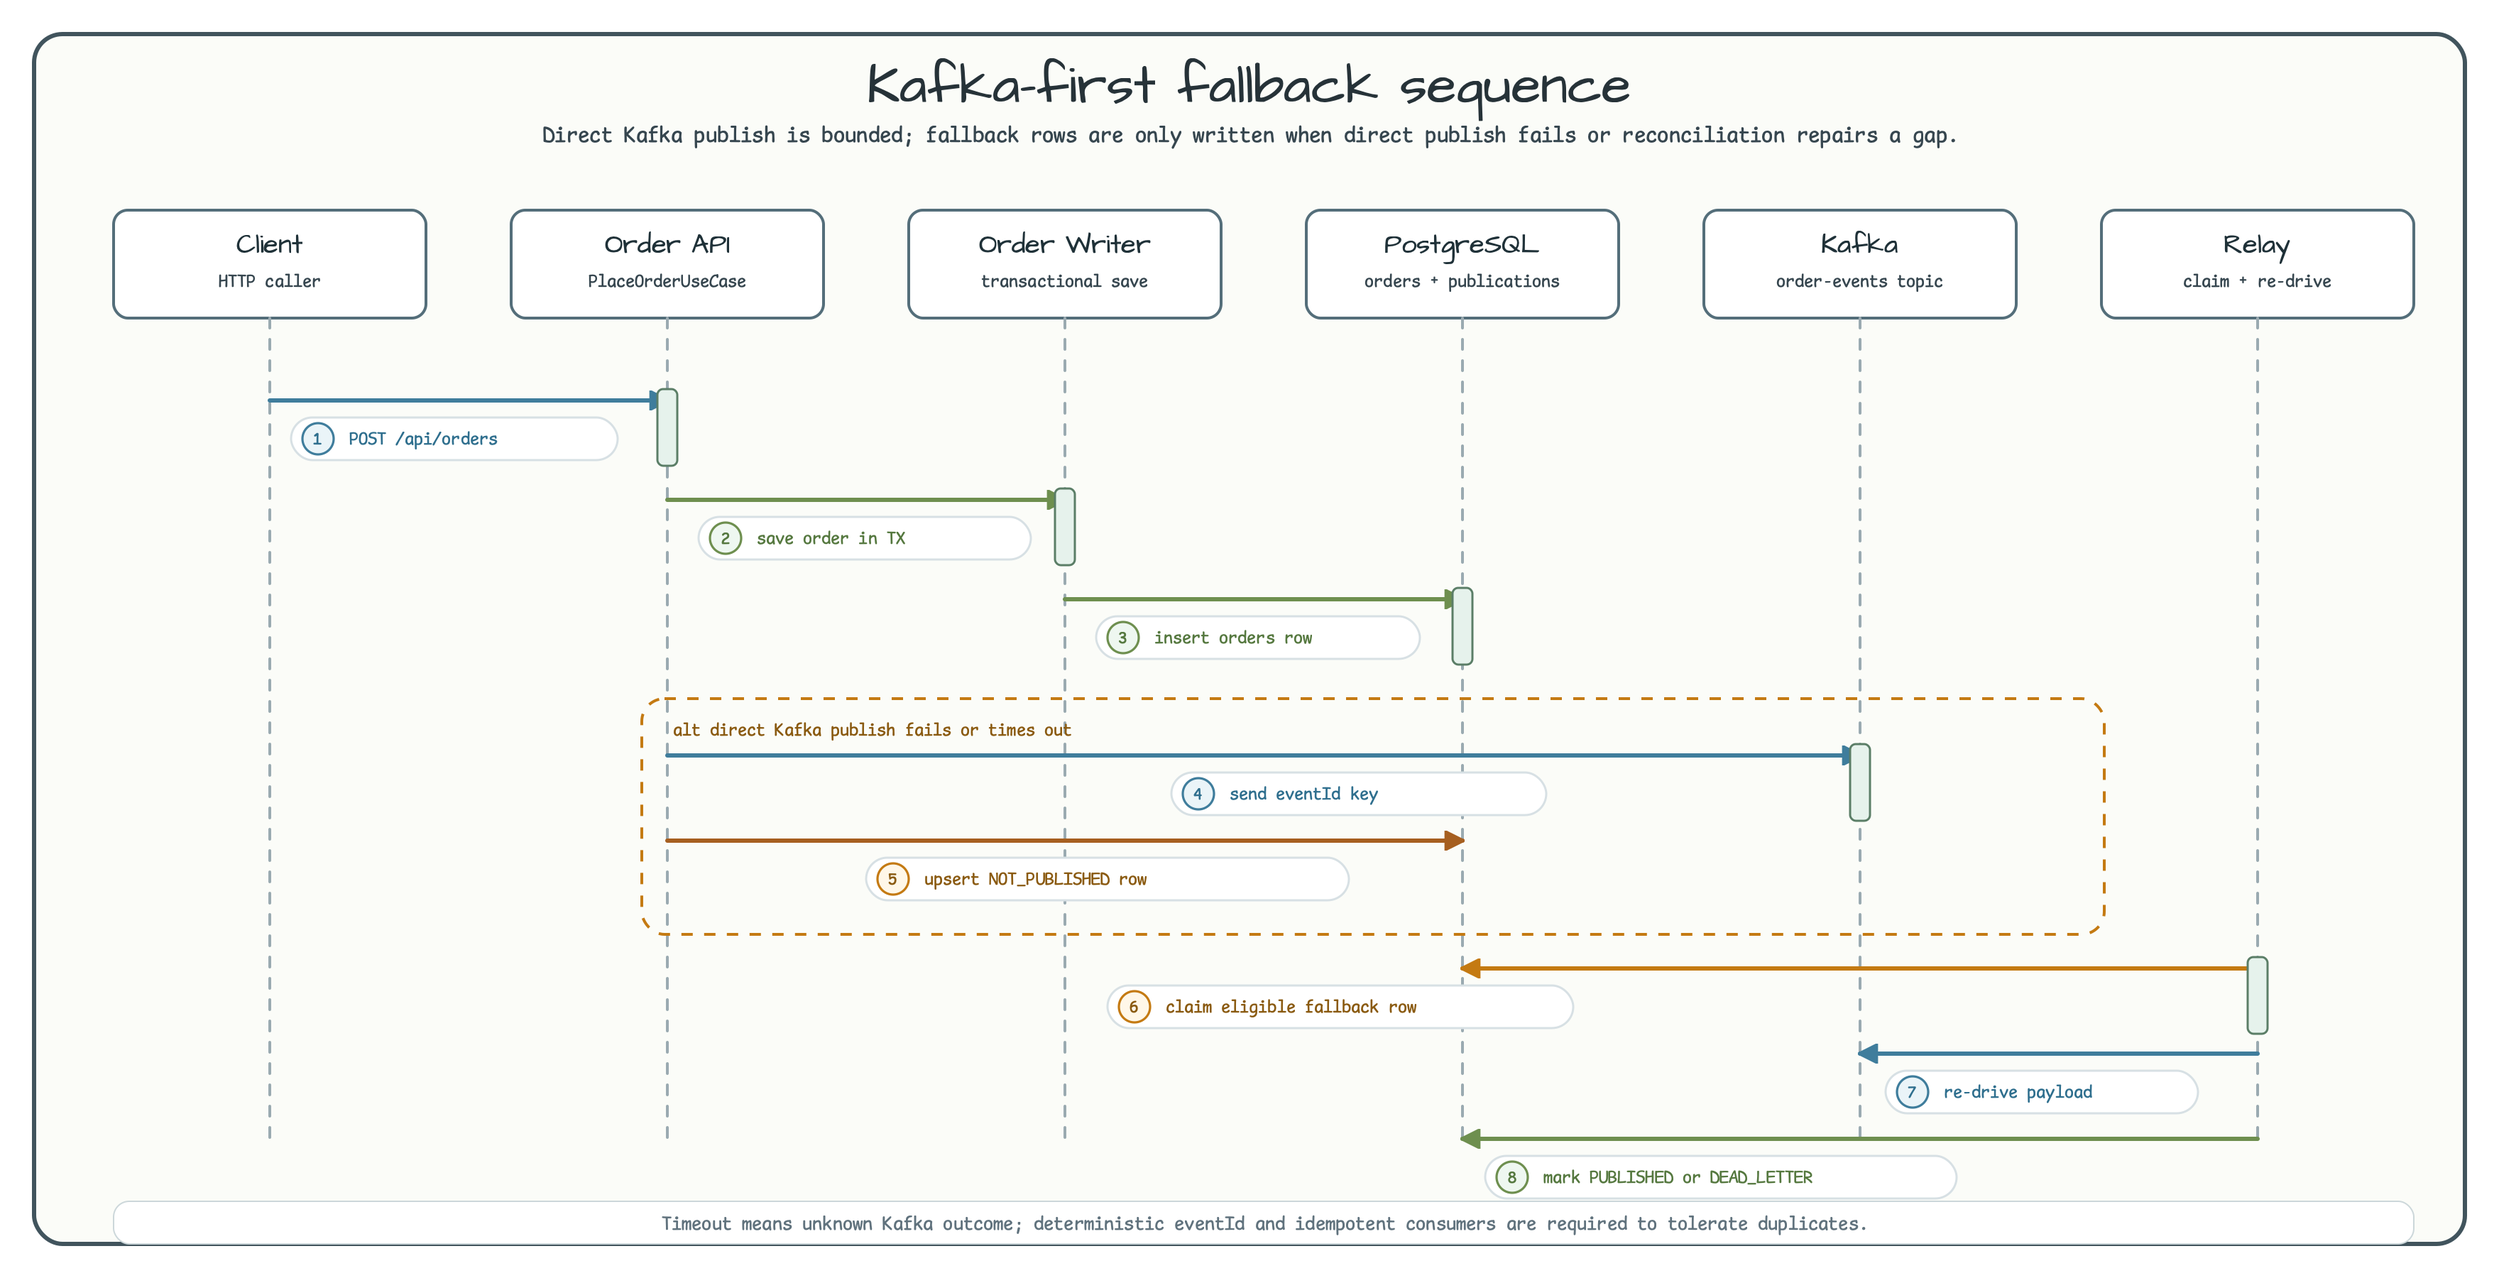
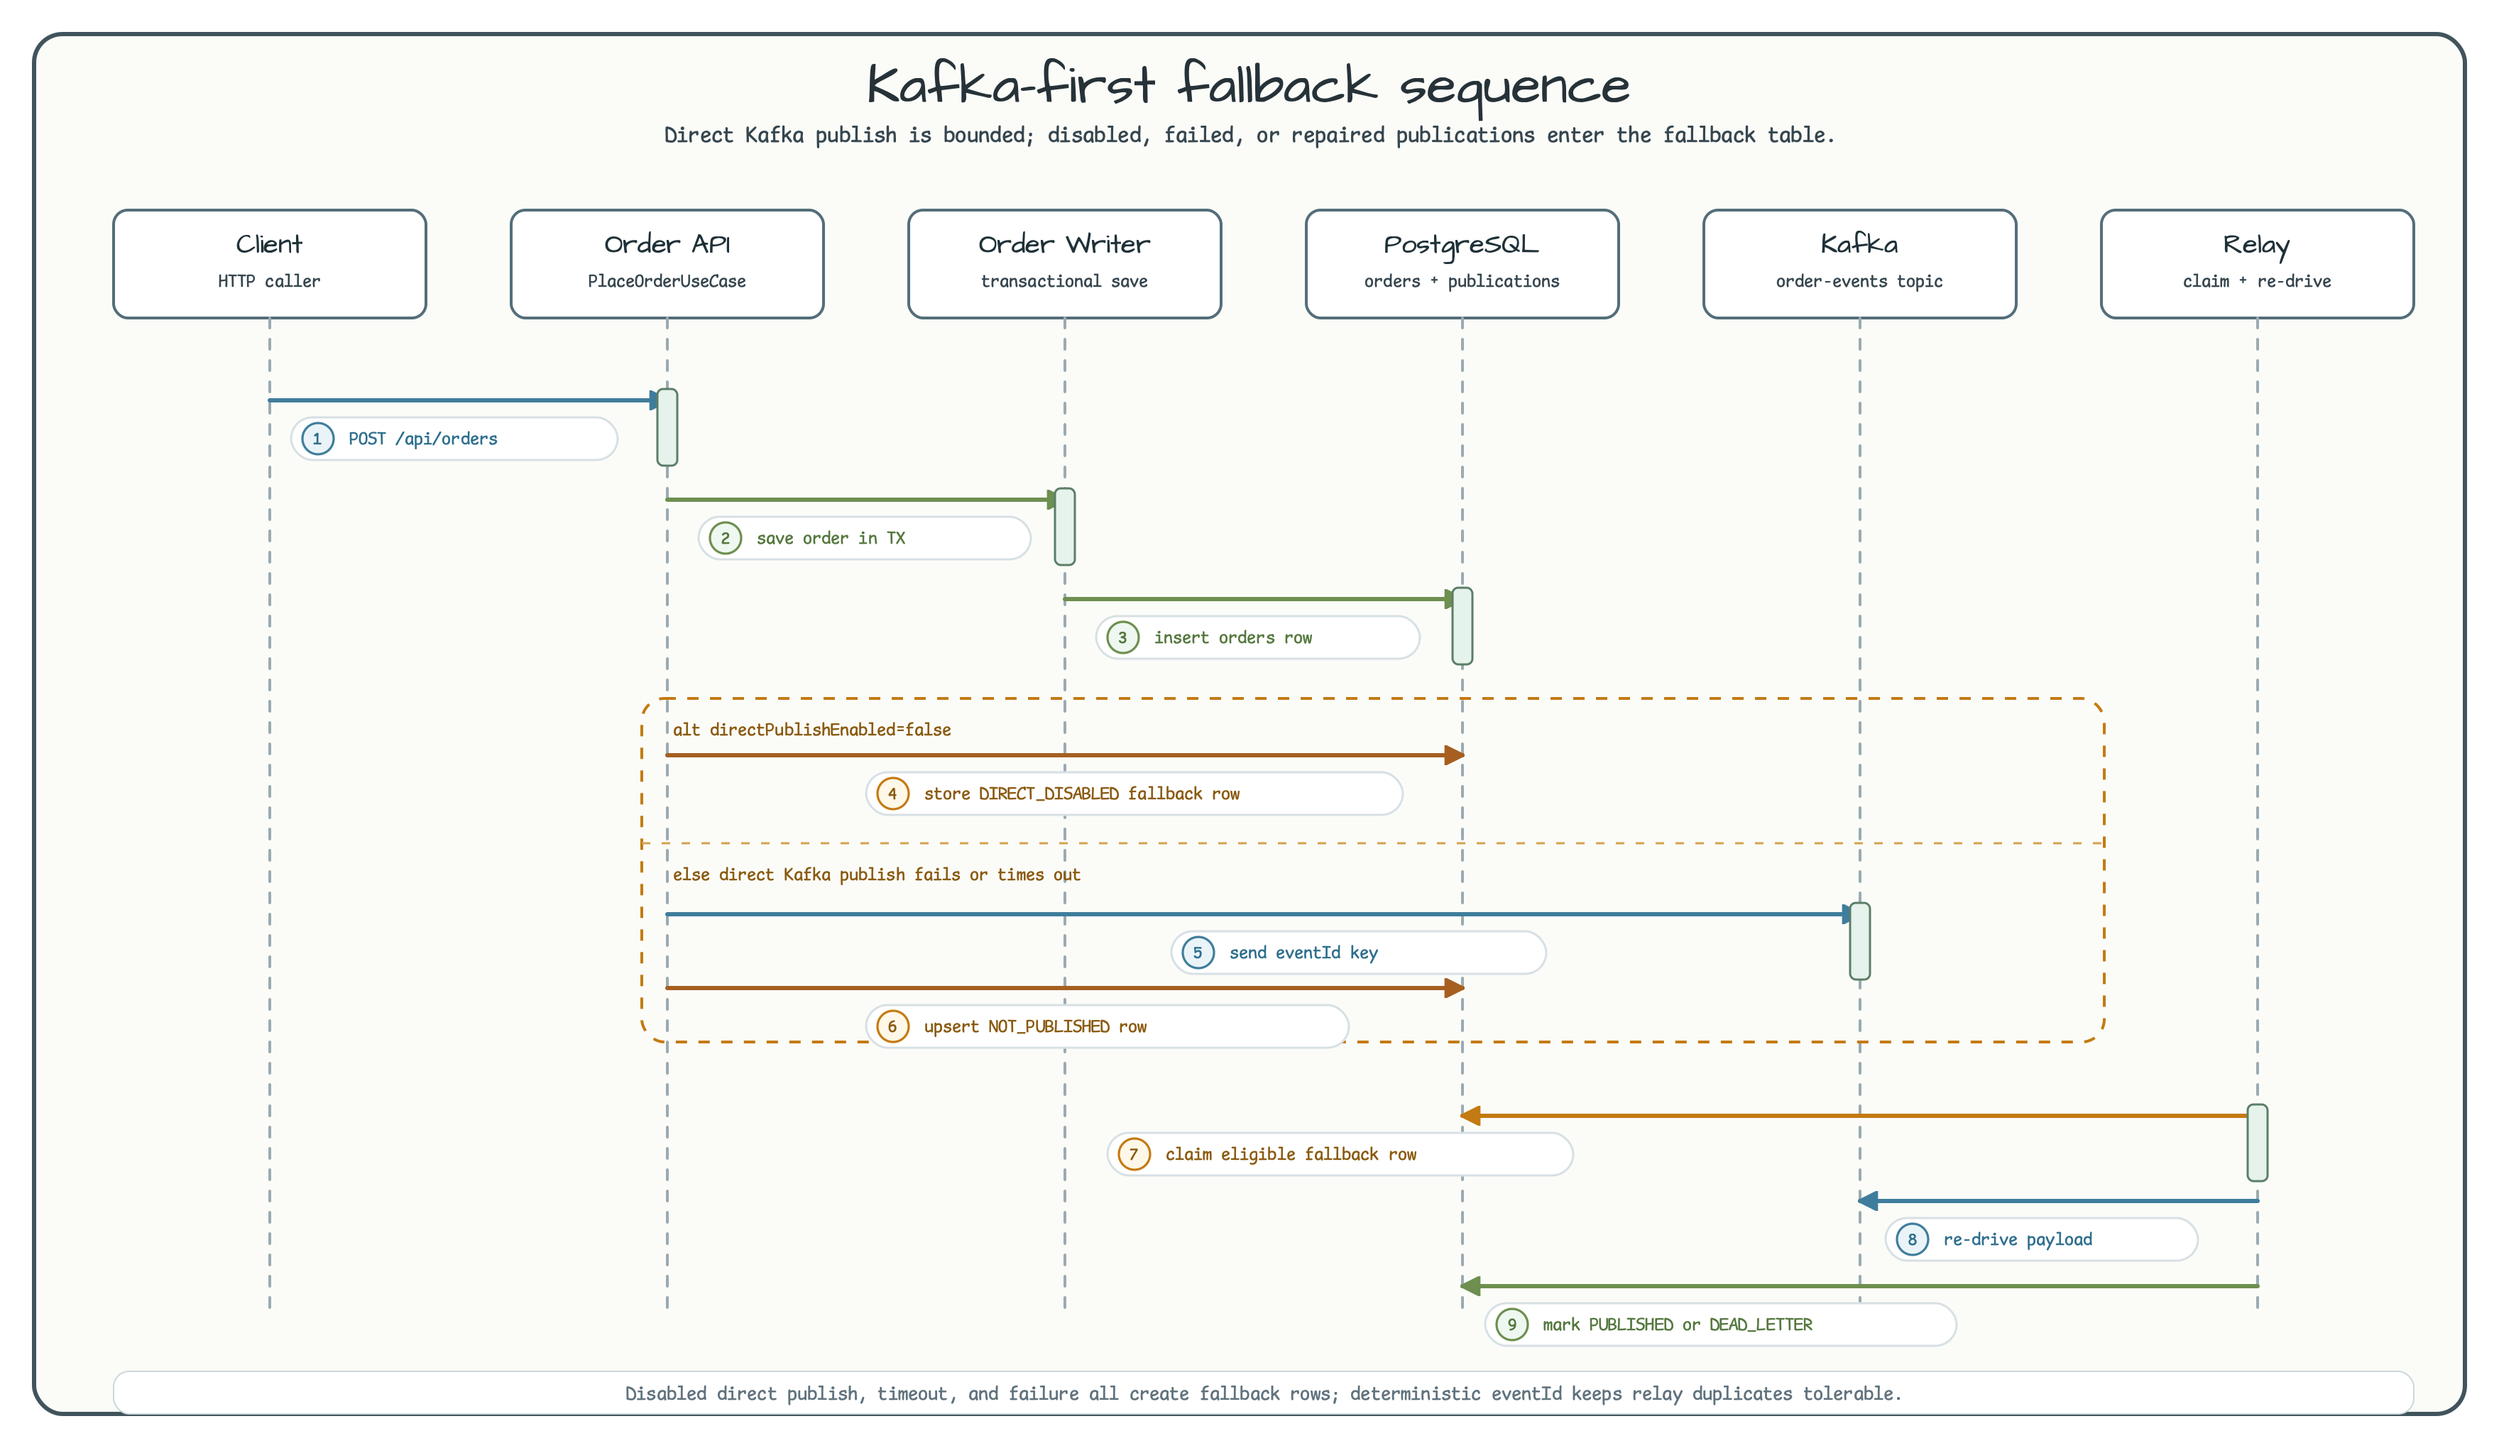
docs: align Kafka fallback disabled publish path
Document the disabled direct-publish branch so learners can distinguish fallback-only operation from failed Kafka sends.

Constraint: Issue #369 is a documentation and diagram remediation under milestone 1.3.1.

Rejected: Folding disabled publish into the failure branch | it hides the Kafka-skipping contract that the example exposes.

Confidence: high

Scope-risk: narrow

Directive: Keep README EN/KO flow, sequence alt branches, and PlaceOrderUseCase KDoc aligned when publication behavior changes.

Tested: node scripts/validate-readme-parity.mjs; node scripts/validate-readme-language.mjs; node scripts/validate-readme-diagram-qa.mjs docs/images/readme-diagrams/kafka-outbox-fallback-readme-sequence-01.svg; diagram-sequence-style-audit.py; xmllint --noout; :messaging-kafka-outbox-fallback:compileKotlin; git diff --check

Not-tested: Full messaging integration tests; issue #369 is docs/KDoc/diagram alignment only.

diff --git a/messaging/kafka-outbox-fallback/src/main/kotlin/io/bluetape4k/workshop/messaging/fallback/domain/PlaceOrderUseCase.kt b/messaging/kafka-outbox-fallback/src/main/kotlin/io/bluetape4k/workshop/messaging/fallback/domain/PlaceOrderUseCase.kt
@@ -10,8 +10,9 @@ import org.springframework.stereotype.Service
 /**
  * Public order placement boundary.
  *
- * Direct Kafka publish and fallback persistence are added in the next TDD task;
- * until then the use case exposes `UNKNOWN` for read-only validation paths.
+ * Persists the order in the hot transaction, then asks [OrderEventPublisher] to
+ * either publish the deterministic `OrderPlaced` event directly to Kafka or
+ * store a durable fallback row when direct publish is disabled or fails.
  */
 @Service
 class PlaceOrderUseCase(

diff --git a/messaging/kafka-outbox-fallback/README.ko.md b/messaging/kafka-outbox-fallback/README.ko.md
@@ -31,11 +31,12 @@ event id를 계약으로 둡니다.
 
 1. `POST /api/orders`가 요청을 검증합니다.
 2. `TransactionalOrderWriter`는 `orders`만 저장합니다.
-3. `OrderEventPublisher`가 `OrderPlacedEvent`를 직렬화해 Kafka로 보냅니다.
-4. 직접 발행이 성공하면 API는 `PUBLISHED_DIRECT`를 반환하고 fallback row는 남기지 않습니다.
-5. 직접 발행이 실패하거나 timeout이면 3번까지 시도한 뒤 `NOT_PUBLISHED` row를 upsert합니다.
-6. `EventPublicationRelay`가 fallback row를 claim하고 Kafka로 다시 보냅니다.
-7. fallback 저장 자체가 실패한 경우 `PublicationReconciler`가 오래된 `orders` row에서 누락된 row를 재구성합니다.
+3. `OrderEventPublisher`가 주문 commit 이후 `OrderPlacedEvent`를 직렬화합니다.
+4. `direct-publish-enabled=false`이면 Kafka를 호출하지 않습니다. 대신 `DIRECT_DISABLED` 사유로 `NOT_PUBLISHED` fallback row를 저장하고 `FALLBACK_STORED`를 반환합니다.
+5. 직접 발행이 활성화되어 있고 성공하면 API는 `PUBLISHED_DIRECT`를 반환하고 fallback row는 남기지 않습니다.
+6. 직접 발행이 활성화되어 있지만 실패하거나 timeout이면 3번까지 시도한 뒤 `NOT_PUBLISHED` row를 upsert합니다.
+7. `EventPublicationRelay`가 fallback row를 claim하고 Kafka로 다시 보냅니다.
+8. fallback 저장 자체가 실패한 경우 `PublicationReconciler`가 오래된 `orders` row에서 누락된 row를 재구성합니다.
 
 ## Fallback 생명주기
 
@@ -82,7 +83,7 @@ curl -s -X POST http://localhost:8080/api/orders \
 | 상태 | 의미 |
 |------|------|
 | `PUBLISHED_DIRECT` | 커밋 이후 Kafka 직접 발행이 성공했습니다. |
-| `FALLBACK_STORED` | 직접 발행이 실패하거나 timeout되어 fallback row를 저장했습니다. |
+| `FALLBACK_STORED` | 직접 발행이 비활성화되었거나, 실패하거나, timeout되어 fallback row를 저장했습니다. |
 | `FALLBACK_STORE_FAILED` | 직접 발행도 실패했고 fallback 저장도 실패했습니다. 이후 reconciler가 `orders`에서 누락 row를 복구할 수 있습니다. |
 | `UNKNOWN` | 조회 API는 내부 publication 상태를 노출하지 않습니다. |
 
@@ -137,6 +138,11 @@ workshop:
 
 예제는 테스트와 다이어그램의 의미가 흔들리지 않도록 `topic`을
 `order-events`, `direct-publish-attempts`를 `3`으로 고정합니다.
+
+`direct-publish-enabled: false`로 설정하면 fallback-only 분기를 확인할 수
+있습니다. 이 모드에서 `OrderEventPublisher`는 `KafkaTemplate.send(...)`를
+건너뛰고, `DIRECT_DISABLED` 사유의 `NOT_PUBLISHED` row를 저장한 뒤
+`FALLBACK_STORED`를 반환합니다.
 
 ## Metrics와 Health
 

diff --git a/docs/review/2026-07-03-issue-369-kafka-outbox-docs-review.md b/docs/review/2026-07-03-issue-369-kafka-outbox-docs-review.md
@@ -1,0 +1,34 @@
+# Issue 369 Kafka Outbox Disabled Publish Docs Review
+
+Date: 2026-07-03
+
+Scope:
+- `messaging/kafka-outbox-fallback/README.md`
+- `messaging/kafka-outbox-fallback/README.ko.md`
+- `docs/images/readme-diagrams/kafka-outbox-fallback-readme-sequence-01.svg`
+- `messaging/kafka-outbox-fallback/src/main/kotlin/io/bluetape4k/workshop/messaging/fallback/domain/PlaceOrderUseCase.kt`
+
+## 7-Tier Findings
+
+P0/P1 findings: none remaining.
+
+Resolved before PR:
+- The README flow described direct publish failure and timeout, but the disabled direct-publish path was not modeled as its own branch. The flow now states that `direct-publish-enabled=false` skips Kafka, writes a `DIRECT_DISABLED` `NOT_PUBLISHED` row, and returns `FALLBACK_STORED`.
+- The sequence diagram only showed the failure/timeout fallback path. It now has a transparent `alt` region with a disabled direct-publish branch and an `else` branch for Kafka failure or timeout.
+- The `PlaceOrderUseCase` KDoc still described direct publish and fallback persistence as future work. It now documents the current `OrderEventPublisher` contract.
+- English and Korean README updates remain source-equivalent, including the status table and configuration notes.
+
+## Verification Evidence
+
+- `node scripts/validate-readme-parity.mjs`: `failures=0`.
+- `node scripts/validate-readme-language.mjs`: `offenders=0`.
+- `node scripts/validate-readme-diagram-qa.mjs docs/images/readme-diagrams/kafka-outbox-fallback-readme-sequence-01.svg`: `PASS`, `weak_reference_rows=0`, marker audit `PASS`, connector geometry `PASS`, fallback sequence audit `labels=9 numbers=9 monotonic=true alt_fill_failures=0`, sequence validator `PASS`, sequence style audit `PASS`.
+- `python3 /Users/debop/.codex/skills/bluetape4k-diagram/references/diagram-sequence-style-audit.py docs/images/readme-diagrams/kafka-outbox-fallback-readme-sequence-01.svg`: `PASS`, `sequence_files=1`.
+- `xmllint --noout docs/images/readme-diagrams/kafka-outbox-fallback-readme-sequence-01.svg`: `PASS`.
+- `./gradlew :messaging-kafka-outbox-fallback:compileKotlin --no-build-cache --warning-mode all --console=plain`: `BUILD SUCCESSFUL`; root build deprecation warnings are pre-existing and unrelated to this KDoc-only Kotlin edit.
+- `git diff --check`: `PASS`.
+- Rendered PNG eye check: disabled direct publish has no Kafka call, the failure branch shows Kafka send then fallback upsert, the `alt` region is transparent, labels are readable, and path/arrow marker colors match.
+
+## Residual Risk
+
+This issue only aligns docs, KDoc, and the sequence diagram with existing behavior. SQL pushdown and contention coverage remain tracked by #370 and #371.

diff --git a/messaging/kafka-outbox-fallback/README.md b/messaging/kafka-outbox-fallback/README.md
@@ -30,11 +30,12 @@ accepted the record even if the caller timed out. The deterministic event id
 
 1. `POST /api/orders` validates the request.
 2. `TransactionalOrderWriter` stores only `orders`.
-3. `OrderEventPublisher` serializes `OrderPlacedEvent` and sends it to Kafka.
-4. Direct publish succeeds: the API returns `PUBLISHED_DIRECT`; no fallback row exists.
-5. Direct publish fails or times out: the publisher retries three times, then upserts a `NOT_PUBLISHED` row.
-6. `EventPublicationRelay` claims fallback rows and re-drives them to Kafka.
-7. `PublicationReconciler` reconstructs missing rows from old `orders` rows when fallback persistence itself failed.
+3. `OrderEventPublisher` serializes `OrderPlacedEvent` after the order commit.
+4. When `direct-publish-enabled=false`, the publisher does **not** call Kafka. It stores a `NOT_PUBLISHED` fallback row with `DIRECT_DISABLED` and returns `FALLBACK_STORED`.
+5. When direct publish is enabled and succeeds, the API returns `PUBLISHED_DIRECT`; no fallback row exists.
+6. When direct publish is enabled but fails or times out, the publisher retries three times, then upserts a `NOT_PUBLISHED` row.
+7. `EventPublicationRelay` claims fallback rows and re-drives them to Kafka.
+8. `PublicationReconciler` reconstructs missing rows from old `orders` rows when fallback persistence itself failed.
 
 ## Fallback Lifecycle
 
@@ -81,7 +82,7 @@ Example response:
 | Status | Meaning |
 |--------|---------|
 | `PUBLISHED_DIRECT` | The after-commit direct Kafka send completed successfully. |
-| `FALLBACK_STORED` | Direct publish failed or timed out and a fallback row was stored. |
+| `FALLBACK_STORED` | Direct publish was disabled, failed, or timed out and a fallback row was stored. |
 | `FALLBACK_STORE_FAILED` | Direct publish failed and fallback persistence also failed. The reconciler can later repair the gap from `orders`. |
 | `UNKNOWN` | Read-only order endpoints do not expose internal publication state. |
 
@@ -137,6 +138,10 @@ workshop:
 
 The demo locks `topic` to `order-events` and `direct-publish-attempts` to `3` so
 the tests and diagrams stay deterministic.
+
+Set `direct-publish-enabled: false` to demonstrate the fallback-only branch. In
+that mode `OrderEventPublisher` skips `KafkaTemplate.send(...)`, writes a
+`NOT_PUBLISHED` row with `DIRECT_DISABLED`, and returns `FALLBACK_STORED`.
 
 ## Metrics And Health
 
